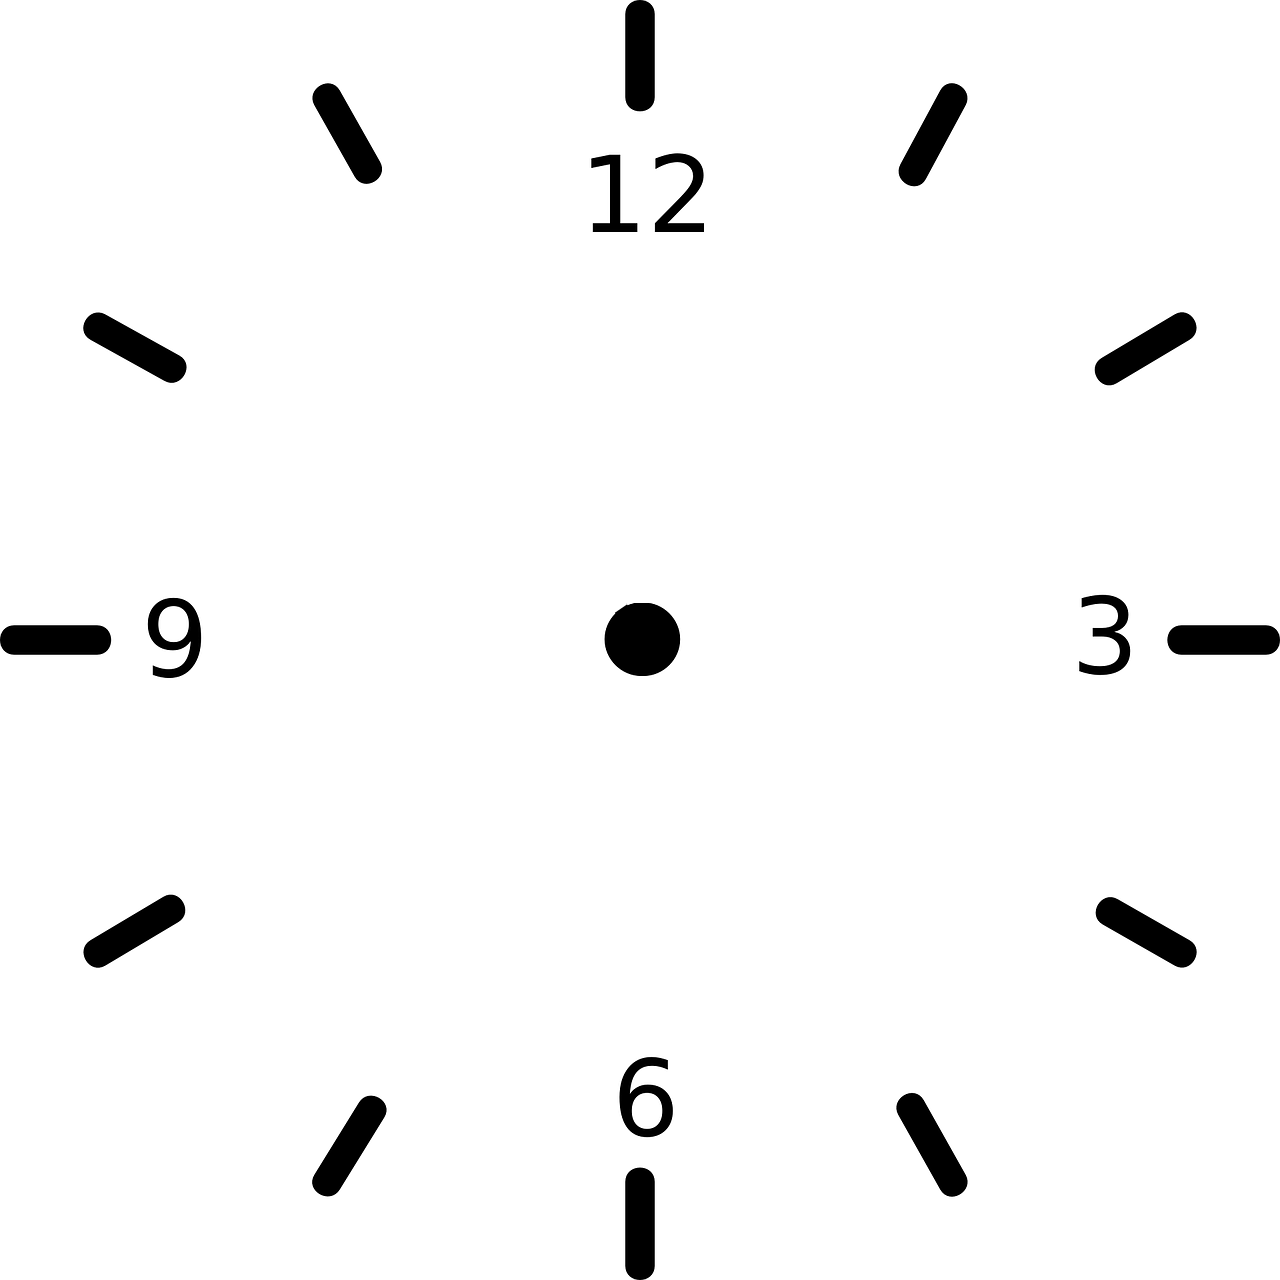
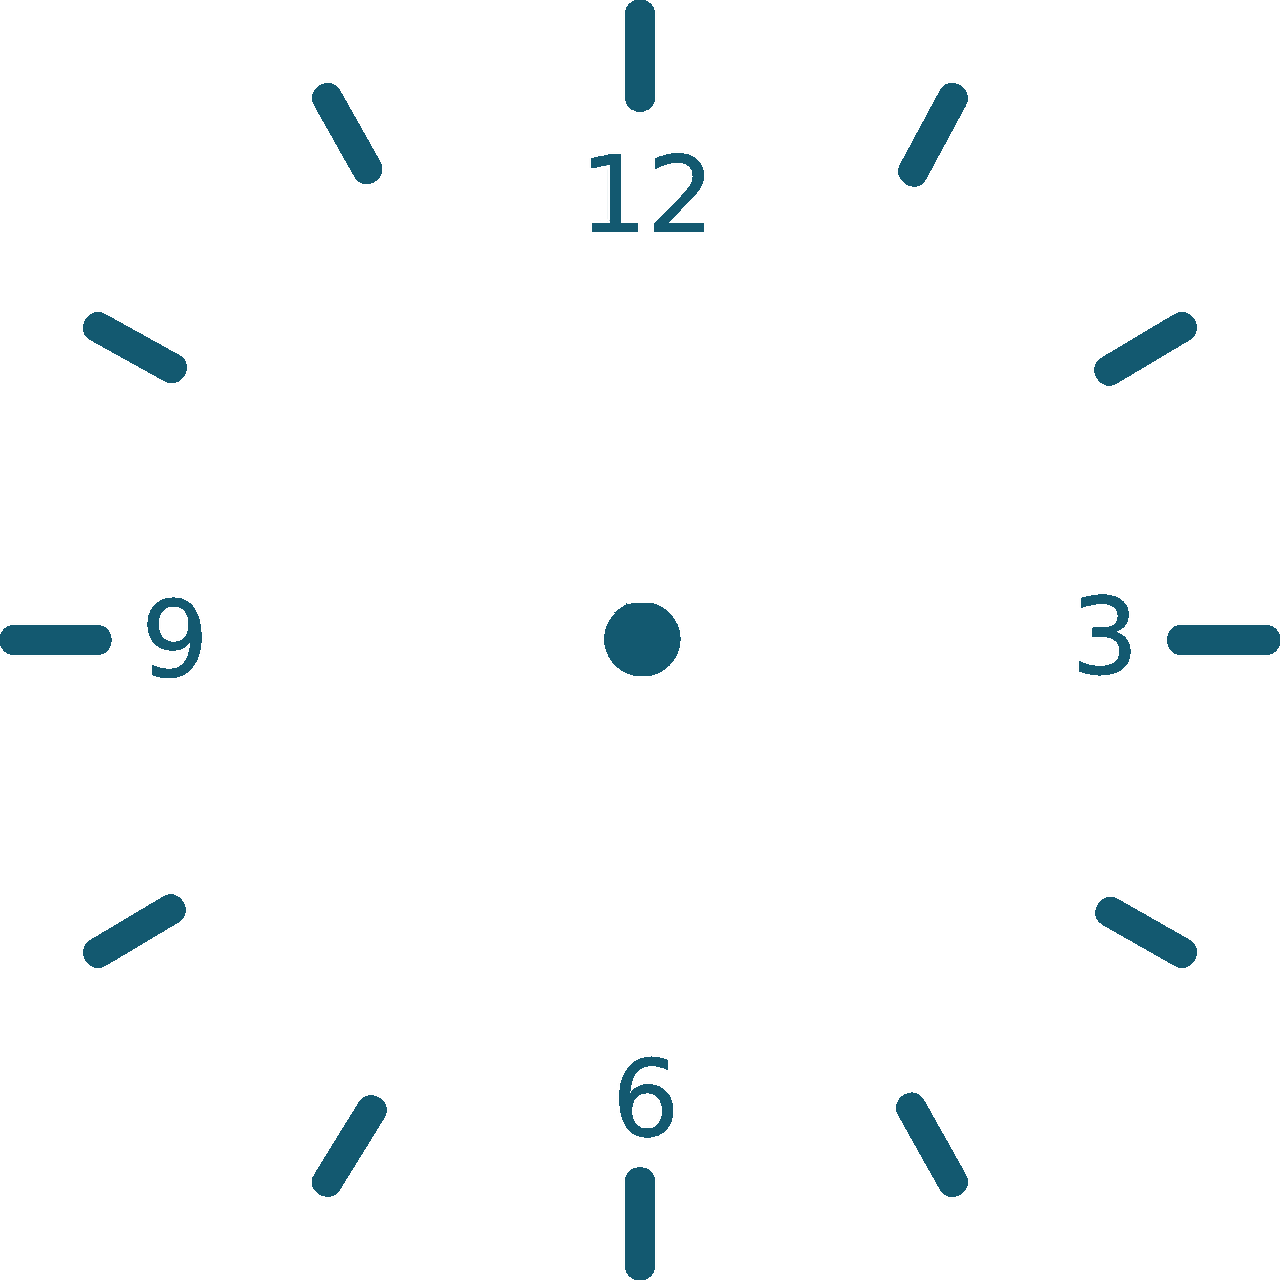
Fixed extra space at bottom and changed clock image color

diff --git a/client/src/index.css b/client/src/index.css
@@ -8,7 +8,7 @@ body {
   -moz-osx-font-smoothing: grayscale;
   background-image: radial-gradient(circle, rgb(223, 234, 238), rgb(176, 203, 212), rgb(173, 215, 230), rgb(146, 146, 231));
   background-repeat: no-repeat;
-  height: 100%;
+  height: 100vh;
 }
 
 a {
